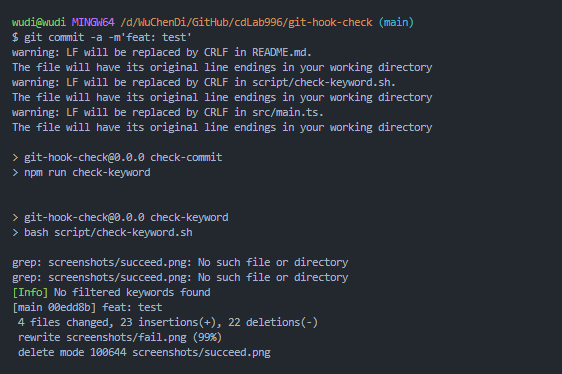
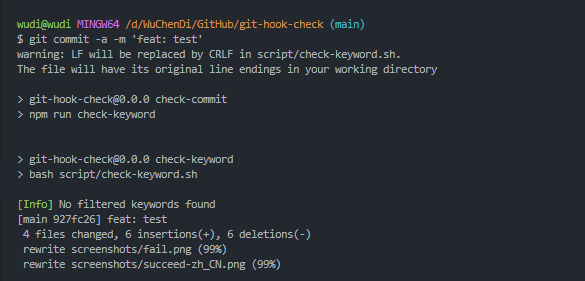
feat: modify md

diff --git a/README-zh_CN.md b/README-zh_CN.md
@@ -19,15 +19,18 @@
 #!/bin/bash
 
 # 设置需要过滤的关键字(支持中文)
-FILTER_WORDS="测试 debugger"
+FILTER_WORDS="debugger 测试"
 
 # 设置不需要检测的目录或文件路径
-IGNORE_PATHS=".git node_modules script src/App.vue"
+IGNORE_PATHS=".git node_modules script src/App.vue README.md README-zh_CN.md"
 
-# 获取暂存区中的文件列表
+# 获取所有已暂存的文件的文件名列表
 FILES=$(git diff --name-only --cached)
 
-# 循环遍历文件列表
+# 定义是否发现错误标志
+has_error=false
+
+# 遍历所有文件
 for FILE in $FILES; do
   # 判断文件是否在不需要检测的目录或文件路径中
   IGNORE=false
@@ -45,10 +48,15 @@ for FILE in $FILES; do
   for FILTER_WORD in $FILTER_WORDS; do
     if grep -Eiq "$FILTER_WORD" "$FILE"; then
       echo -e "\033[31m[警告]\033[0m 文件 $FILE 中存在关键字: \033[31m$FILTER_WORD\033[0m"
-      exit 1
+      has_error=true
     fi
   done
 done
+
+# 如果发现错误，退出
+if $has_error; then
+  exit 1
+fi
 
 echo -e "\033[32m[提示]\033[0m 没有发现需要过滤的关键字"
 exit 0
@@ -66,7 +74,5 @@ exit 0
 ![succeed](./screenshots/succeed-zh_CN.png)
 
 ## 🎈 License
-
-<!-- This is a fork from [sdk-ts](https://github.com/gotabit/sdk-ts) -->
 
 [![GitHub license](https://img.shields.io/github/license/HJFront/gotabit-sdk-vue)](https://github.com/HJFront/gotabit-sdk-vue/blob/master/LICENSE)

diff --git a/README.md b/README.md
@@ -19,13 +19,16 @@ Use git hook to block keywords for files in the staging area. [Link](./script/ch
 #!/bin/bash
 
 # Set the filter keywords (support Chinese)
-FILTER_WORDS="测试 debugger"
+FILTER_WORDS="debugger 测试"
 
 # Set the directories or file paths that don't need to be checked
-IGNORE_PATHS=".git node_modules script src/App.vue"
+IGNORE_PATHS=".git node_modules script src/App.vue README.md README-zh_CN.md"
 
 # Get the list of files in the cache area
 FILES=$(git diff --name-only --cached)
+
+# Define if error flags are found
+has_error=false
 
 # Loop through the file list
 for FILE in $FILES; do
@@ -45,10 +48,15 @@ for FILE in $FILES; do
   for FILTER_WORD in $FILTER_WORDS; do
     if grep -Eiq "$FILTER_WORD" "$FILE"; then
       echo -e "\033[31m[Warning]\033[0m Keyword \033[31m$FILTER_WORD\033[0m found in file $FILE"
-      exit 1
+      has_error=true
     fi
   done
 done
+
+# If an error is found, exit
+if $has_error; then
+  exit 1
+fi
 
 echo -e "\033[32m[Info]\033[0m No filtered keywords found"
 exit 0
